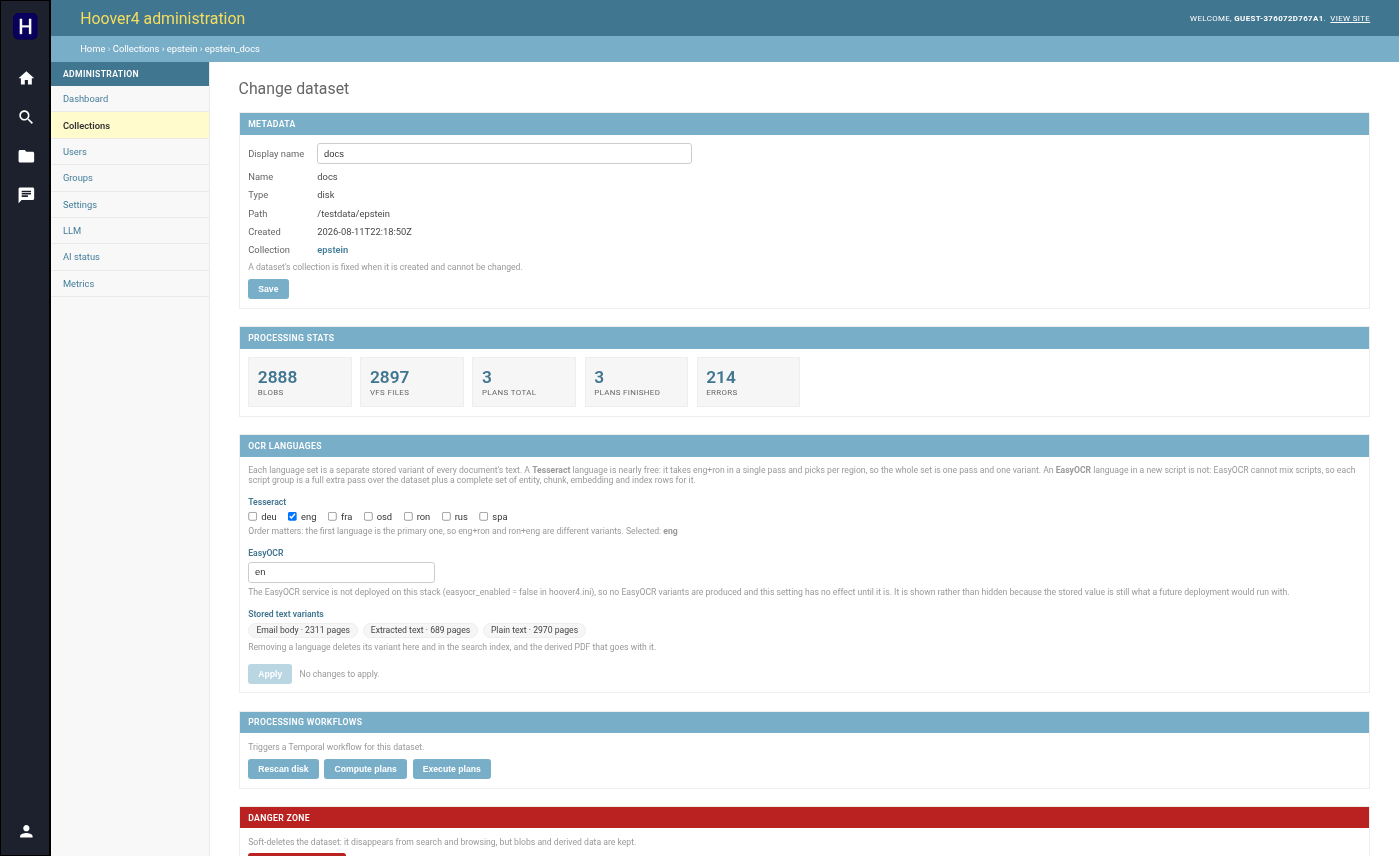
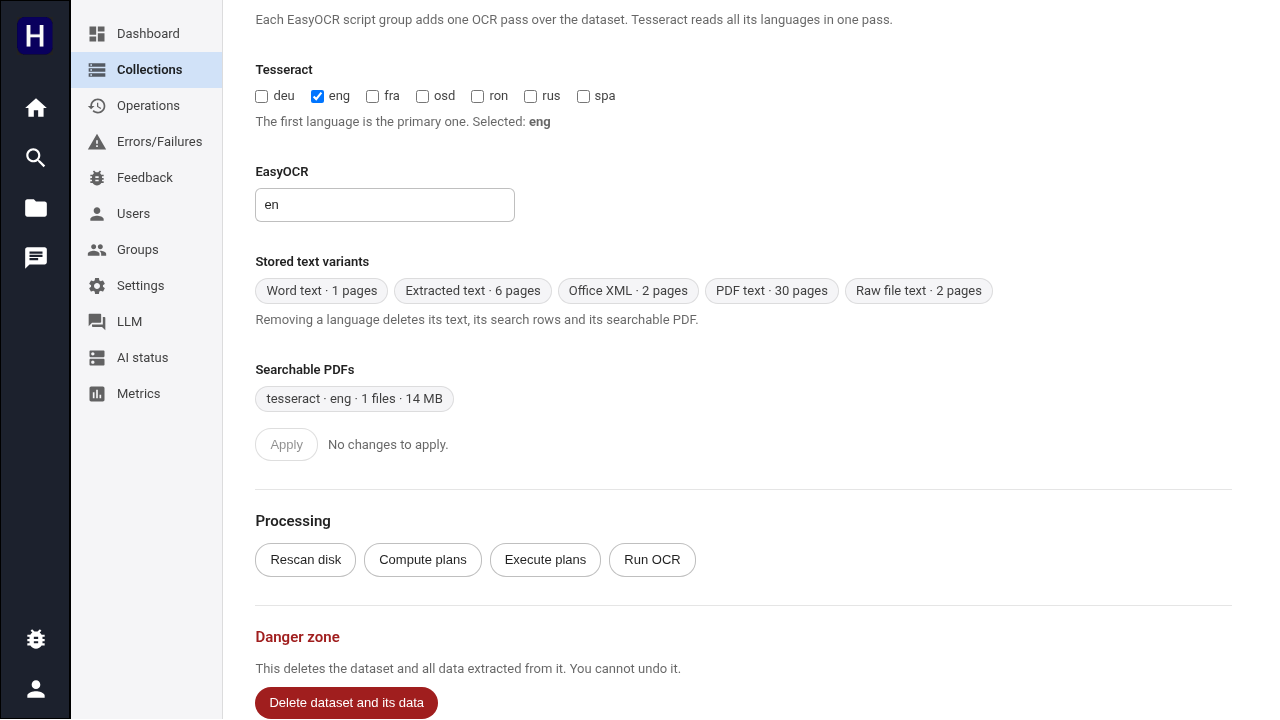
show one run ocr button

Changed region(s): [[0.0, 0.0, 1.0, 1.0], [0.1562, 0.4889, 1.0, 1.0]]

diff --git a/website/backend/src/api/admin/datasets.rs b/website/backend/src/api/admin/datasets.rs
@@ -170,6 +170,22 @@ pub async fn admin_delete_dataset(
     Ok(())
 }
 
+/// The operation kind and the operation detail of each button kind of the dataset page.
+///
+/// The button's name and the operation kind differ because the buttons predate the
+/// operations log: this is the one place the two vocabularies are mapped. "Run OCR" is
+/// the kind `rerun_ocr`, the stored name of that operation.
+fn operation_for_button(kind: &str) -> anyhow::Result<(&'static str, &'static str)> {
+    Ok(match kind {
+        "ingest_and_process" => ("add_dataset", ""),
+        "rescan" => ("rescan_dataset", ""),
+        "compute_plans" => ("compute_plans", ""),
+        "execute_plans" => ("execute_plans", ""),
+        "rerun_ocr" => ("rerun_ocr", ""),
+        other => anyhow::bail!("unknown workflow kind: {other}"),
+    })
+}
+
 /// Start one of the per-dataset pipeline runs from the admin UI.
 ///
 /// Every kind is dispatched as an **operation** rather than as a bare workflow, so a
@@ -177,24 +193,13 @@ pub async fn admin_delete_dataset(
 /// terminal, takes the same lock, and gets a workflow id unique to its dispatch. Before
 /// that they started `ingest-and-process-<dataset>`, a fixed id, which meant a second
 /// click resolved to the first click's execution instead of running again.
-///
-/// The button's name and the operation kind differ because the buttons predate the
-/// operations log: this is the one place the two vocabularies are mapped.
 pub async fn admin_trigger_workflow(
     user: &CurrentUser,
     collection_dataset: String,
     kind: String,
 ) -> anyhow::Result<String> {
     guard::require_admin(user)?;
-    let (operation_kind, detail) = match kind.as_str() {
-        "ingest_and_process" => ("add_dataset", ""),
-        "rescan" => ("rescan_dataset", ""),
-        "compute_plans" => ("compute_plans", ""),
-        "execute_plans" => ("execute_plans", ""),
-        "rerun_ocr" => ("rerun_ocr", r#"{"replace_existing":false}"#),
-        "rerun_ocr_replace" => ("rerun_ocr", r#"{"replace_existing":true}"#),
-        other => anyhow::bail!("unknown workflow kind: {other}"),
-    };
+    let (operation_kind, detail) = operation_for_button(&kind)?;
     let Some(row) = get_dataset_row(&collection_dataset).await? else {
         anyhow::bail!("dataset not found");
     };
@@ -207,4 +212,16 @@ pub async fn admin_trigger_workflow(
         detail,
     )
     .await
+}
+
+#[cfg(test)]
+mod tests {
+    use super::*;
+
+    #[test]
+    fn run_ocr_is_one_kind_with_no_input() {
+        assert_eq!(operation_for_button("rerun_ocr").unwrap(), ("rerun_ocr", ""));
+        let refused = operation_for_button("rerun_ocr_replace").unwrap_err();
+        assert_eq!(refused.to_string(), "unknown workflow kind: rerun_ocr_replace");
+    }
 }

diff --git a/website/frontend/src/pages/admin/dataset_detail.rs b/website/frontend/src/pages/admin/dataset_detail.rs
@@ -168,8 +168,7 @@ fn DatasetDetailContent(collection_id: String, dataset_id: String) -> Element {
                     }
                     WorkflowButton { label: "Compute plans", kind: "compute_plans", dataset_id: dataset_id.clone(), pending, msg, error_msg }
                     WorkflowButton { label: "Execute plans", kind: "execute_plans", dataset_id: dataset_id.clone(), pending, msg, error_msg }
-                    WorkflowButton { label: "Run missing OCR", kind: "rerun_ocr", dataset_id: dataset_id.clone(), pending, msg, error_msg }
-                    WorkflowButton { label: "Run all OCR again", kind: "rerun_ocr_replace", dataset_id: dataset_id.clone(), pending, msg, error_msg }
+                    WorkflowButton { label: "Run OCR", kind: "rerun_ocr", dataset_id: dataset_id.clone(), pending, msg, error_msg }
                 }
             }
         }

diff --git a/website/backend/src/api/admin/operations.rs b/website/backend/src/api/admin/operations.rs
@@ -80,7 +80,6 @@ const INPUT_KEYS: &[(&str, &[&str])] = &[
     ("add_dataset", &["dataset_path"]),
     ("rescan_dataset", &["dataset_path"]),
     ("change_ocr_languages", &["tesseract_languages", "easyocr_languages"]),
-    ("rerun_ocr", &["replace_existing"]),
     ("retry_failed_files", &["task_name", "hash"]),
     ("refresh_document_locations", &["item_hashes"]),
     ("export_collection", &["destination"]),
@@ -1127,6 +1126,10 @@ mod tests {
         assert_eq!(
             project_inputs("export_collection", r#"{"stores":{},"phase":"x"}"#, None)
                 .unwrap(),
+            serde_json::json!({}),
+        );
+        assert_eq!(
+            project_inputs("rerun_ocr", r#"{"replace_existing":true}"#, None).unwrap(),
             serde_json::json!({}),
         );
     }

diff --git a/docs/user-manual/User_Manual.md b/docs/user-manual/User_Manual.md
@@ -473,8 +473,18 @@ now, and a table of where the processing time actually goes.
 
 A dataset's page shows its type and source path, when it was created, and its statistics:
 state, documents, size, indexed documents, errors, and finished plans. It also shows the OCR
-languages in use. **Run missing OCR** produces the OCR results that the current settings ask
-for and that do not exist yet. **Run all OCR again** also produces the existing results again.
+languages in use.
+
+**Run OCR** brings the dataset's OCR to the state that its current settings ask for. It first
+finishes the processing that a cancelled or failed ingestion left, with every stage. Then it
+runs OCR for each image and searchable PDF that has no result, and indexes OCR text that
+search does not have yet. It skips an image that is too small or empty, and a file whose OCR
+failed under the current languages. **Retry** on the processing page repeats failed files.
+
+The progress bar counts plans while unfinished processing runs, then OCR and indexing
+targets. New OCR text adds indexing targets, so the total can increase during the run. A
+second **Run OCR** on a finished dataset sends no OCR request. A cancelled run loses no
+completed work, and the next **Run OCR** continues from it.
 
 ![Admin, one dataset](img/admin-dataset.png)
 
